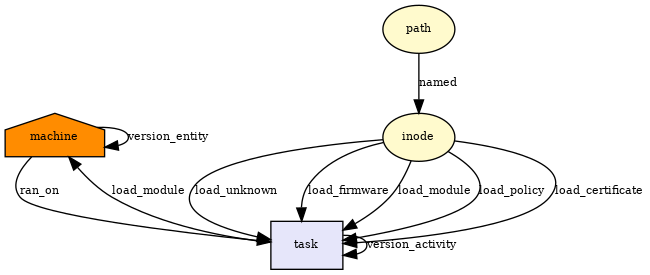
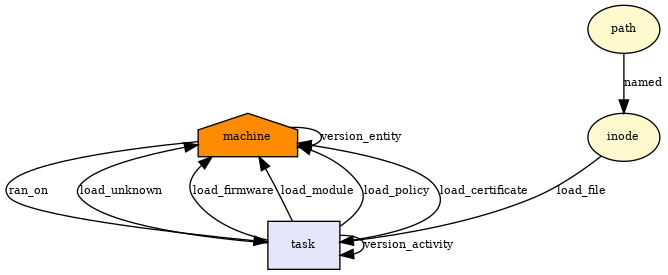
further fix

diff --git a/scripts/instruction.rb b/scripts/instruction.rb
@@ -105,7 +105,7 @@ class Instruction
     relation = self.relation_to_str elements[1]
     a = self.prov_to_type elements[2]
     b = self.prov_to_type elements[3]
-    return a + '-' + relation + '->' + b + ',' + self.version(b) + ',' + b + '-' + self.relation_to_str('RL_LOAD_MODULE') + '-> machine' + ',' + self.version('machine')
+    return a + '-' + self.relation_to_str('RL_LOAD_FILE') + '->' + b + ',' + self.version(b) + ',' + b + '-' + relation + '-> machine' + ',' + self.version('machine')
   end
 
   def self.get_task_provenance_to_relation

diff --git a/include/uapi/linux/provenance.h b/include/uapi/linux/provenance.h
@@ -30,7 +30,7 @@
   "."xstr(CAMFLOW_VERSION_MINOR)\
   "."xstr(CAMFLOW_VERSION_PATCH)\
 
-#define CAMFLOW_COMMIT "39d2b82ad0d96171fb28c4ef4180c6b827876b77"
+#define CAMFLOW_COMMIT "73b2eb9289373625d4771835a2cceea1066f559f"
 
 #define PROVENANCE_HASH "sha256"
 
